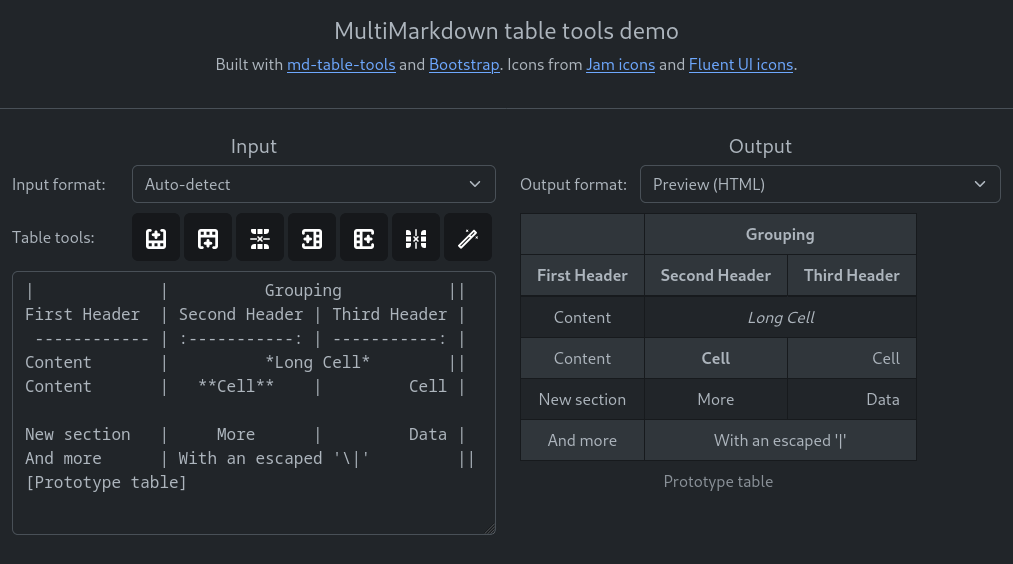
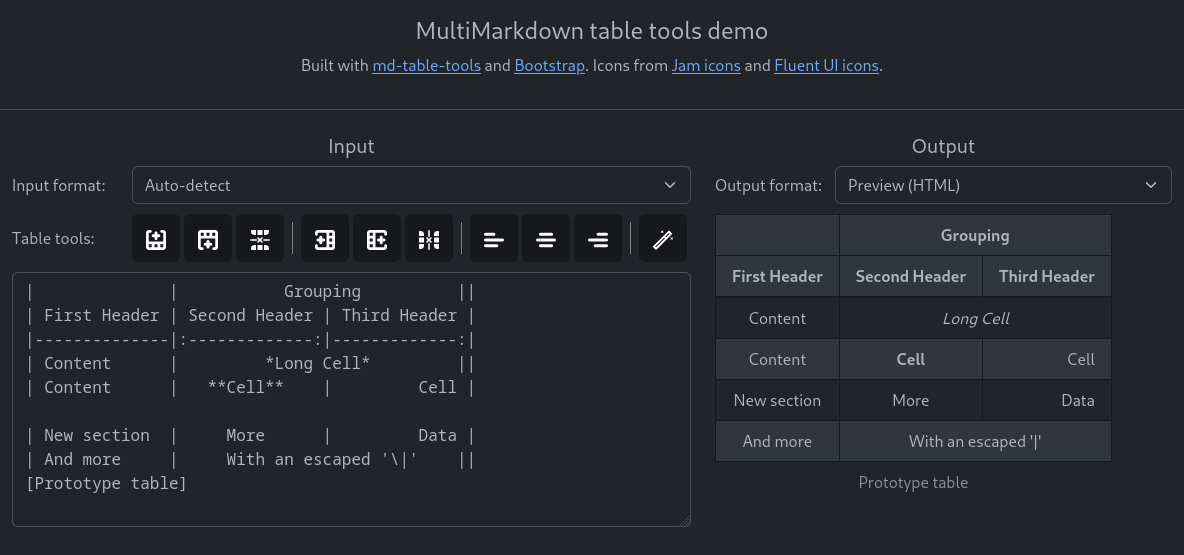
Add text alignment to demo

diff --git a/demo/src/main.js b/demo/src/main.js
@@ -81,6 +81,33 @@ function determineCursorPosition(index, str) {
     }
 }
 
+/**
+ * The opposite of determineCursorPosition. Determine the cursor index inside of a text.
+ * @param {number} line Line number
+ * @param {number} ch Character/column
+ * @param {string} str Text
+ * @returns {number} index
+ */
+function determineCursorIndex(line, ch, str) {
+    // Very primitive way of determining it... just iterating over the string and counting.
+    let currentLine = 1;
+    let currentCh = 0;
+    let currentIndex = 0;
+    for (const c of str) {
+        if (currentLine == line && currentCh == ch) {
+            return currentIndex;
+        }
+        if (c == "\n") {
+            currentLine++;
+            currentCh = 0;
+        } else {
+            currentCh++;
+        }
+        currentIndex++;
+    }
+    return -1;
+}
+
 
 /*
     Table parsing (determine row index, column index, and text range)
@@ -113,7 +140,7 @@ function determineColumnIndex(lineStr, ch) {
 
 /**
  * Returns the range (line numbers and character numbers) of the table and the selected row/column at the cursor. If there is no table at the cursor, it returns null.
- * @returns {{ range, row, column } | null}
+ * @returns {{ start: { line: number, ch: number }, end: { line: number, ch: number }, row: number, column: number, line: number, ch: number } | null}
  */
 function getTableCursor() {
     const cursor = getCursor();
@@ -189,7 +216,9 @@ function getTableCursor() {
                 "ch": getLine(endLine).length
             },
             "row": rowIndex,
-            "column": determineColumnIndex(getLine(cursor.line), cursor.ch)
+            "column": determineColumnIndex(getLine(cursor.line), cursor.ch),
+            "line": cursor.line,
+            "ch": cursor.ch
         };
     else
         return null;
@@ -373,7 +402,7 @@ function onChange() {
 function onBtnFormat() {
     try {
         setInput(formatInput(getInput(), getInputFormat()));
-        hideError();
+        onChange();
     } catch (e) {
         setErrorOutput(e.toString());
         throw e;
@@ -382,15 +411,36 @@ function onBtnFormat() {
 
 function actionWrapper(callback) {
     try {
+        // Get stuff:
         const input = getInput();
+        const outputFormat = getOutputFormat();
         const cursor = getTableCursor();
         if (cursor == null) {
             setErrorOutput("Couldn't determine cursor position in table.");
             return;
         }
+
+        // Parse table:
         const table = parseInput(input, "mmd");
+
+        // Manipulate table:
         callback(table, cursor);
+
+        // Write rendered result back into input textarea:
         setInput(mmdPrettyRenderer.render(table));
+
+        // Render output:
+        const output = renderOutput(table, outputFormat);
+        if (outputFormat == "preview")
+            setOutputRaw(output);
+        else
+            setOutputPre(output);
+
+        // Restore textarea focus and cursor position:
+        const textarea = document.getElementById("input");
+        const newCursorIndex = determineCursorIndex(cursor.line, cursor.ch, textarea.value);
+        textarea.focus();
+        textarea.selectionEnd = newCursorIndex;
     } catch (e) {
         setErrorOutput(e.toString());
         throw e;
@@ -401,7 +451,6 @@ function onBtnRowAddAbove() {
     actionWrapper((table, cursor) => {
         table.addRow(cursor.row);
         table.update();
-        return table;
     });
 }
 
@@ -409,7 +458,6 @@ function onBtnRowAddBelow() {
     actionWrapper((table, cursor) => {
         table.addRow(cursor.row + 1);
         table.update();
-        return table;
     });
 }
 
@@ -417,7 +465,6 @@ function onBtnRowDelete() {
     actionWrapper((table, cursor) => {
         table.removeRow(cursor.row);
         table.update();
-        return table;
     });
 }
 
@@ -425,7 +472,6 @@ function onBtnColAddLeft() {
     actionWrapper((table, cursor) => {
         table.addColumn(cursor.column);
         table.update();
-        return table;
     });
 }
 
@@ -433,7 +479,6 @@ function onBtnColAddRight() {
     actionWrapper((table, cursor) => {
         table.addColumn(cursor.column + 1);
         table.update();
-        return table;
     });
 }
 
@@ -441,7 +486,27 @@ function onBtnColDelete() {
     actionWrapper((table, cursor) => {
         table.removeColumn(cursor.column);
         table.update();
-        return table;
+    });
+}
+
+function onBtnAlignLeft() {
+    actionWrapper((table, cursor) => {
+        const column = table.getColumn(cursor.column);
+        column.textAlign = column.textAlign == "left" ? "default" : "left";
+    });
+}
+
+function onBtnAlignCenter() {
+    actionWrapper((table, cursor) => {
+        const column = table.getColumn(cursor.column);
+        column.textAlign = column.textAlign == "center" ? "default" : "center";
+    });
+}
+
+function onBtnAlignRight() {
+    actionWrapper((table, cursor) => {
+        const column = table.getColumn(cursor.column);
+        column.textAlign = column.textAlign == "right" ? "default" : "right";
     });
 }
 
@@ -462,6 +527,9 @@ document.getElementById("btn-row-delete").addEventListener("click", onBtnRowDele
 document.getElementById("btn-col-add-left").addEventListener("click", onBtnColAddLeft);
 document.getElementById("btn-col-add-right").addEventListener("click", onBtnColAddRight);
 document.getElementById("btn-col-delete").addEventListener("click", onBtnColDelete);
+document.getElementById("btn-align-left").addEventListener("click", onBtnAlignLeft);
+document.getElementById("btn-align-center").addEventListener("click", onBtnAlignCenter);
+document.getElementById("btn-align-right").addEventListener("click", onBtnAlignRight);
 document.getElementById("btn-format").addEventListener("click", onBtnFormat);
 
 // Init UI

diff --git a/demo/src/index.html b/demo/src/index.html
@@ -50,7 +50,7 @@
                                 <option value="csv-semi">CSV (;)</option>
                             </select>
                         </div>
-                        <div class="separator"></div>
+                        <div class="spacer"></div>
                         <div id="tools" class="d-flex flex-row justify-content-start align-items-center">
                             <span class="fs-6 label">Table tools:&nbsp;</span>
                             <button type="button" class="btn btn-action" data-bs-toggle="tooltip" data-bs-title="Add row above" id="btn-row-add-above">
@@ -62,6 +62,7 @@
                             <button type="button" class="btn btn-action" data-bs-toggle="tooltip" data-bs-title="Delete row" id="btn-row-delete">
                                 <img src="icons/table-delete-row.svg" class="svg-icon">
                             </button>
+                            <div class="separator"></div>
                             <button type="button" class="btn btn-action" data-bs-toggle="tooltip" data-bs-title="Add column left" id="btn-col-add-left">
                                 <img src="icons/table-col-before.svg" class="svg-icon">
                             </button>
@@ -71,11 +72,22 @@
                             <button type="button" class="btn btn-action" data-bs-toggle="tooltip" data-bs-title="Delete column" id="btn-col-delete">
                                 <img src="icons/table-delete-column.svg" class="svg-icon">
                             </button>
+                            <div class="separator"></div>
+                            <button type="button" class="btn btn-action" data-bs-toggle="tooltip" data-bs-title="Align left" id="btn-align-left">
+                                <img src="icons/align-left.svg" class="svg-icon">
+                            </button>
+                            <button type="button" class="btn btn-action" data-bs-toggle="tooltip" data-bs-title="Align center" id="btn-align-center">
+                                <img src="icons/align-center.svg" class="svg-icon">
+                            </button>
+                            <button type="button" class="btn btn-action" data-bs-toggle="tooltip" data-bs-title="Align right" id="btn-align-right">
+                                <img src="icons/align-right.svg" class="svg-icon">
+                            </button>
+                            <div class="separator"></div>
                             <button type="button" class="btn btn-action" data-bs-toggle="tooltip" data-bs-title="Format table" id="btn-format">
                                 <img src="icons/magic.svg" class="svg-icon">
                             </button>
                         </div>
-                        <div class="separator"></div>
+                        <div class="spacer"></div>
                         <textarea class="form-control" id="input">|             |          Grouping           ||
 First Header  | Second Header | Third Header |
  ------------ | :-----------: | -----------: |
@@ -103,7 +115,7 @@ And more      | With an escaped '\|'         ||
                                 <option value="csv-semi">CSV (;)</option>
                             </select>
                         </div>
-                        <div class="separator"></div>
+                        <div class="spacer"></div>
                         <div id="output"></div>
                         <div class="alert alert-danger" id="error" role="alert"></div>
                     </div>

diff --git a/demo/src/style.css b/demo/src/style.css
@@ -40,8 +40,16 @@ caption {
     Site style
 */
 
-div.separator {
+div.spacer {
     height: 10px;
+}
+
+div.separator {
+    width: 1px;
+    height: 32px;
+    background-color: gray;
+    margin-left: 4px;
+    margin-right: 8px;
 }
 
 textarea#input {
